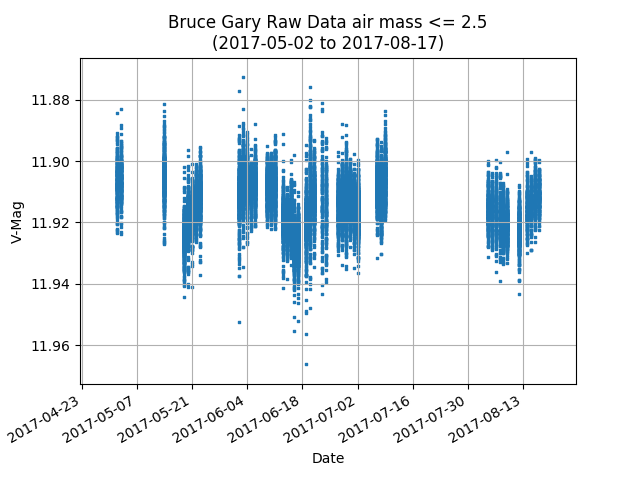
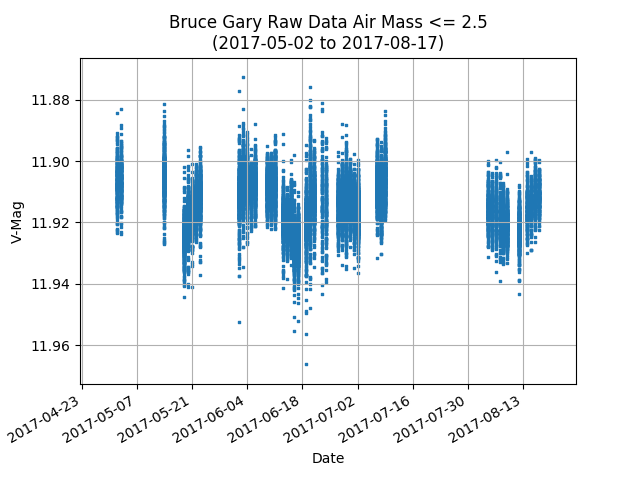
added in daily bins

Changed region(s): [[0.25, 0.0312, 0.6875, 0.0625], [0.7188, 0.0312, 0.75, 0.0625]]

diff --git a/combine_data.py b/combine_data.py
@@ -1,8 +1,7 @@
 import csv
 import glob
 import matplotlib.pyplot as plt
-import matplotlib.ticker as tkr
-import matplotlib.dates as mdates
+import numpy as np
 import datetime
 
 
@@ -16,9 +15,38 @@ def main():
     print('#observations air mass <= 2.5:',len(combined_good_air))
 
     write_csv(header+combined,"bruce_gary_raw_data_combined")
-    scatter_plot(combined,plot_name="scatter", plot_title="Bruce Gary Raw Data Unmodified")
+    scatter_plot(combined,plot_name="scatter", plot_title="Bruce Gary Raw Data Unmodified",marker_size=1)
     write_csv(header+combined_good_air,"bruce_gary_raw_data_good_air_combined")
-    scatter_plot(combined_good_air,plot_name="scatter_good_air", plot_title="Bruce Gary Raw Data air mass <= 2.5")
+    scatter_plot(combined_good_air,plot_name="scatter_good_air", plot_title="Bruce Gary Raw Data Air Mass <= 2.5",marker_size=1)
+    daily_bins = get_daily_binned_data(combined_good_air)
+    write_csv(header+daily_bins,"bruce_gary_raw_data_good_air_daily_bins")
+    scatter_plot(daily_bins,plot_name="scatter_good_air_daily_bins", plot_title="Bruce Gary Daily Bins Air Mass <= 2.5",marker_size=16)
+    print(daily_bins)
+
+def get_daily_binned_data(data):
+    days = []
+    day_x_sum = []
+    day_y_sum = []
+    day_counts = []
+    for i in range(len(data)):
+        x = int(float(data[i][0]))
+        if(x not in days):
+            days.append(x)
+            day_x_sum.append(0)
+            day_y_sum.append(0)
+            day_counts.append(0)
+        index = days.index(x)
+        day_x_sum[index] += float(data[i][0])
+        day_y_sum[index] += float(data[i][1])
+        day_counts[index] += 1
+    binned = []
+    for i in range(len(days)):
+        x_avg = day_x_sum[i]/day_counts[i]
+        y_avg = day_y_sum[i]/day_counts[i]
+        binned.append([x_avg,y_avg])
+    return binned
+
+
 
 
 def filter_by_air_mass(data):
@@ -28,7 +56,7 @@ def filter_by_air_mass(data):
             filtered.append(data[i])
     return filtered
 
-def scatter_plot(combined, plot_name, plot_title):
+def scatter_plot(combined, plot_name, plot_title, marker_size):
     x = []
     y = []
     for i in range(1,len(combined)):
@@ -44,7 +72,7 @@ def scatter_plot(combined, plot_name, plot_title):
     plt.gca().invert_yaxis()
     plt.gcf().autofmt_xdate()
     plt.grid()
-    plt.scatter(x,y,s=1,marker='s')
+    plt.scatter(x,y,s=marker_size,marker='s')
     plt.savefig("SavedPlots/" + plot_name + ".png")
     plt.show()
 
